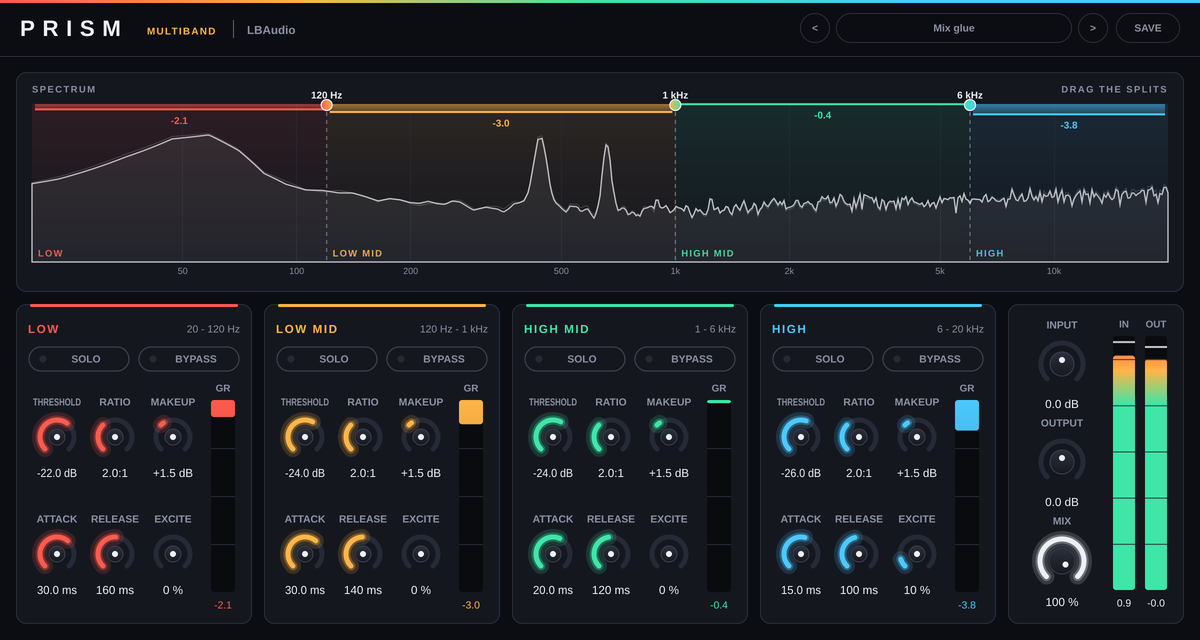
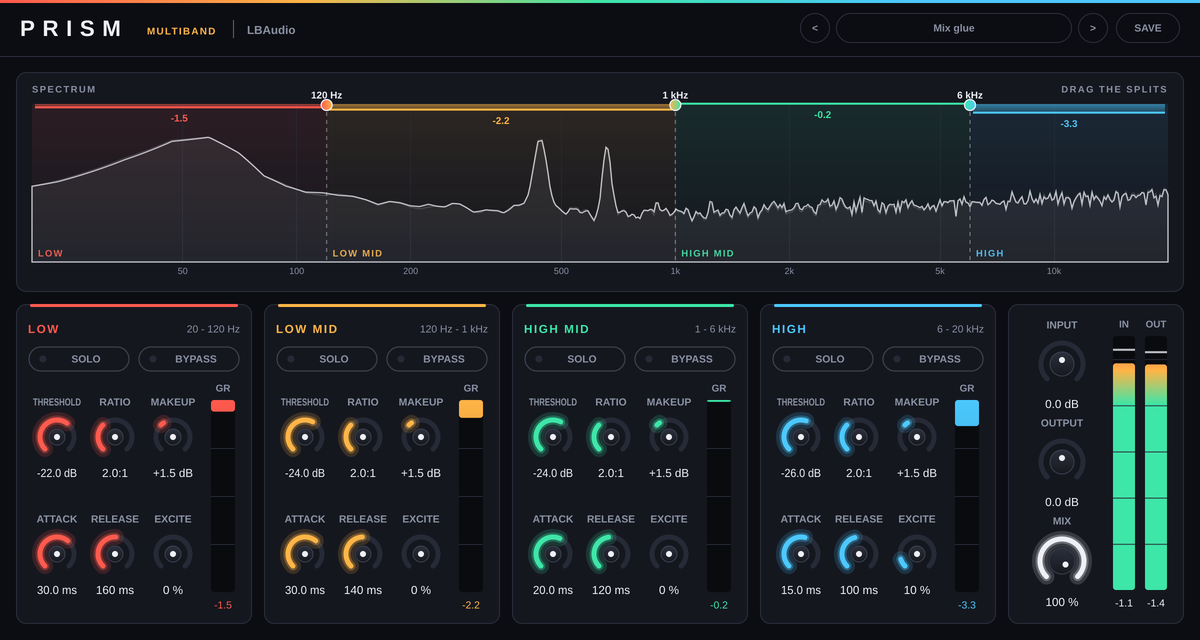
Prism: level-independent exciter, exact state restore, thread-safe presets
- Each band's exciter follows the band's envelope, so its harmonics sit the
  same distance under the band at any level; the curve's fundamental is put
  back and the harmonics are high-passed at the band's lower edge
- setStateInformation lines every parameter up with the state exactly
  (pluginval strictness 10 passes)
- Preset name and number live outside the value tree, so a host changing
  program from its audio thread is safe; a host's program 0 while loading a
  session leaves a user preset alone
- 808 weight preset: Low excite 60 %

Claude-Session: https://claude.ai/code/session_01D2tYPZDwenNEd5JoU51Zf3

diff --git a/plugins/Prism/Source/PluginProcessor.cpp b/plugins/Prism/Source/PluginProcessor.cpp
@@ -109,7 +109,8 @@ void PrismAudioProcessor::prepareToPlay (double sampleRate, int samplesPerBlock)
     for (auto& c : compressors) c.prepare (osFs, 2);
 
     smoothCoeff = 1.0f - (float) std::exp (-1.0 / (0.02 * fs));
-    dcR = std::exp (-2.0 * lbaudio::dsp::pi * 10.0 / osFs);
+    exciteAttack = std::exp (-1.0 / (prism::exciteAttackS * osFs));
+    exciteRelease = std::exp (-1.0 / (prism::exciteReleaseS * osFs));
 
     const auto p = currentParams();
     inGain = juce::Decibels::decibelsToGain (p.inputDb);
@@ -125,8 +126,7 @@ void PrismAudioProcessor::reset()
     if (oversampler) oversampler->reset();
     for (auto& x : crossover) x.reset();
     for (auto& c : compressors) c.reset();
-    for (auto& a : dcX1) a.fill (0.0);
-    for (auto& a : dcY1) a.fill (0.0);
+    for (auto& e : exciters) e.reset();
 }
 
 bool PrismAudioProcessor::isBusesLayoutSupported (const BusesLayout& layouts) const
@@ -160,6 +160,8 @@ void PrismAudioProcessor::processBlock (juce::AudioBuffer<float>& buffer, juce::
     {
         currentSplits = next;
         for (auto& x : crossover) x.set (currentSplits, osFs);
+        const float lowEdges[prism::numBands] = { 20.0f, currentSplits.low, currentSplits.mid, currentSplits.high };
+        for (int b = 0; b < prism::numBands; ++b) exciters[(size_t) b].setLowEdge (lowEdges[b], osFs);
     }
 
     for (int b = 0; b < prism::numBands; ++b)
@@ -225,30 +227,33 @@ void PrismAudioProcessor::processChunk (float* const* io, int channels, int n, c
         lbaudio::ui::storeMax (meterReduction[(size_t) b], stats.maxGainReductionDb);
 
         const float target = bp.excite;
+        auto& ex = exciters[(size_t) b];
         if (target > 0.0f || excite[(size_t) b] > 1.0e-4f)
         {
             float e = excite[(size_t) b];
-            for (int ch = 0; ch < channels; ++ch)
+            float* x[2] = { buf.getWritePointer (0), buf.getWritePointer (channels > 1 ? 1 : 0) };
+            double env = ex.env;
+            for (int i = 0; i < upN; ++i)
             {
-                float* x = buf.getWritePointer (ch);
-                double x1 = dcX1[(size_t) b][(size_t) ch], y1 = dcY1[(size_t) b][(size_t) ch];
-                e = excite[(size_t) b];
-                for (int i = 0; i < upN; ++i)
+                e += (target - e) * osSmooth;
+                float level = 0.0f;
+                for (int ch = 0; ch < channels; ++ch) level = juce::jmax (level, std::abs (x[ch][i]));
+                env = level + (level > env ? exciteAttack : exciteRelease) * (env - level);
+                const float ref = juce::jmax ((float) env, prism::exciteFloor), mixAmount = prism::exciteMix (e);
+                for (int ch = 0; ch < channels; ++ch)
                 {
-                    e += (target - e) * osSmooth;
-                    const double h = prism::harmonics (x[i], prism::exciteDrive (e));
-                    const double y = h - x1 + dcR * y1; // the harmonics' DC (even ones bring some) is taken out
-                    x1 = h; y1 = y;
-                    x[i] += prism::exciteMix (e) * (float) y;
+                    const float h = ref * prism::exciteHarmonics (x[ch][i] / ref);
+                    x[ch][i] += mixAmount * ex.highPass[(size_t) ch].process (h);
                 }
-                dcX1[(size_t) b][(size_t) ch] = x1;
-                dcY1[(size_t) b][(size_t) ch] = std::abs (y1) < 1.0e-20 ? 0.0 : y1;
             }
+            ex.env = env < 1.0e-12 ? 0.0 : env;
+            for (auto& f : ex.highPass) f.snapDenormals();
             excite[(size_t) b] = e;
         }
         else
         {
             excite[(size_t) b] = target;
+            ex.reset();
         }
     }
 

diff --git a/plugins/Prism/Source/PrismDSP.h b/plugins/Prism/Source/PrismDSP.h
@@ -12,9 +12,11 @@
 //                -> high half -> AP(low) -> LR(high) -> [High Mid, High]
 //
 // Compressor: Squeeze's (feed-forward, soft knee, stereo-linked peak detection).
-// Exciter: adds the harmonics of a curve with a slope of 1 at zero (Ember's Tube curve, so even and odd
-// harmonics) on top of the band; the fundamental is left where it was. Only harmonics are added, so a band's
-// level barely moves, and each band's harmonics are generated from that band alone.
+// Exciter: each band, scaled by its own envelope to a steady level, goes through Ember's Tube curve (even and
+// odd harmonics); what the curve adds, minus its fundamental, is scaled back and added to the band. So the
+// harmonics sit at the same distance below the band whether it's loud or quiet, the band's own level
+// doesn't move, and each band's harmonics are made from that band alone. They're high-passed at the band's
+// lower edge, so nothing the envelope does can thump below the band.
 
 #include <LBAudio/Biquad.h>
 #include "../../Squeeze/Source/CompressorDSP.h"
@@ -145,12 +147,46 @@ inline float tube (float x) noexcept
     return (std::tanh (x + tubeBias) - tb) * norm;
 }
 
-// Excite 0..1: drive into the curve rises to +16 dB, and the harmonics are added at up to twice their level.
-inline float exciteDrive (float amount) noexcept { return 1.0f + 5.3f * amount; }
-inline float exciteMix (float amount) noexcept { return 2.0f * amount; }
+constexpr float exciteDrive = 2.0f;           // into the curve, at the band's peak level
+constexpr float exciteFloor = 0.001f;          // -60 dB: quieter than this, a band isn't lifted to full level
+constexpr double exciteAttackS = 0.001, exciteReleaseS = 0.12;
 
-// The harmonics only: the curve minus its linear part.
-inline float harmonics (float x, float drive) noexcept { return tube (x * drive) / drive - x; }
+// How much of the fundamental the curve takes away from a full-level sine, put back so only harmonics are added
+inline float exciteFundamental() noexcept
+{
+    static const float c = []
+    {
+        double s = 0.0;
+        constexpr int n = 4096;
+        for (int i = 0; i < n; ++i)
+        {
+            const double ph = 2.0 * lbaudio::dsp::pi * i / n, u = std::sin (ph);
+            s += (tube ((float) u * exciteDrive) / exciteDrive - u) * u;
+        }
+        return (float) (-2.0 * s / n);
+    }();
+    return c;
+}
+
+// The harmonics of a band scaled to peak at about 1
+inline float exciteHarmonics (float u) noexcept { return tube (u * exciteDrive) / exciteDrive - u + exciteFundamental() * u; }
+
+// Excite 0..1: at 100 % the 3rd harmonic of a steady tone sits about 17 dB under it and the 2nd about 22 dB under
+inline float exciteMix (float amount) noexcept { return 1.5f * amount; }
+
+// One band's exciter: its envelope (stereo-linked) and the high-pass on its harmonics, per channel
+struct Exciter
+{
+    double env = 0.0;
+    std::array<lbaudio::dsp::Biquad, 2> highPass;
+
+    void reset() noexcept { env = 0.0; for (auto& f : highPass) f.reset(); }
+    void setLowEdge (double hz, double fs)
+    {
+        const auto c = lbaudio::dsp::design (lbaudio::dsp::Shape::HighPass, std::max (20.0, hz), 0.0, butterworthQ, fs);
+        for (auto& f : highPass) f.c = c;
+    }
+};
 
 //==============================================================================
 struct BandParams

diff --git a/tests/PrismTests.cpp b/tests/PrismTests.cpp
@@ -146,6 +146,24 @@ void runSuite (juce::AudioProcessor& proc)
         check (h2 > -45.0f && h3 > -45.0f, "Low Excite 100 %: a 60 Hz tone gains its 2nd and 3rd harmonics",
                "2nd " + fmt (h2, 1) + ", 3rd " + fmt (h3, 1) + " dB");
     }
+    defaults (proc); h.set ("High Mid Excite", "50"); h.apply();
+    {
+        // The exciter follows the band's level, so a quiet band gets the same colour as a loud one
+        auto ratios = [&] (float inDb)
+        {
+            const auto out = h.run ((int) sampleRate, sine (inDb, 2000.0f));
+            const float f = toneDb (out, settle, out.size(), 2000.0);
+            return std::make_pair (toneDb (out, settle, out.size(), 4000.0) - f, toneDb (out, settle, out.size(), 6000.0) - f);
+        };
+        const auto loud = ratios (-6.0f), quiet = ratios (-40.0f);
+        const float diff = std::max (std::abs (loud.first - quiet.first), std::abs (loud.second - quiet.second));
+        check (diff < 1.0f && loud.second > -30.0f && loud.second < -18.0f, "High Mid Excite 50 %: the same harmonics at -6 dB and -40 dB",
+               "3rd " + fmt (loud.second, 1) + " / " + fmt (quiet.second, 1) + " dB, 2nd " + fmt (loud.first, 1) + " / " + fmt (quiet.first, 1) + " dB under the tone");
+        h.apply();
+        const auto out = h.run ((int) sampleRate, sine (-6.0f, 2000.0f));
+        const float level = toneDb (out, settle, out.size(), 2000.0) + 6.0f;
+        check (std::abs (level) < 0.3f, "...and the tone itself stays at its level", fmt (level) + " dB");
+    }
     defaults (proc); h.set ("High Excite", "100"); h.set ("High Mid Excite", "100"); h.apply();
     {
         const auto out = h.run ((int) sampleRate, sine (-12.0f, 60.0f));
@@ -306,6 +324,6 @@ int main (int argc, char** argv)
             renderSnapshot<PrismAudioProcessor, PrismAudioProcessorEditor> (png, [] (Harness& h)
             {
                 h.proc.setCurrentProgram (1); // Mix glue
-            }, beat (-5.0f), 90);
+            }, beat (-7.0f), 90);
         });
 }

diff --git a/plugins/Prism/Source/PluginProcessor.h b/plugins/Prism/Source/PluginProcessor.h
@@ -93,8 +93,8 @@ private:
     std::array<squeeze::Compressor, prism::numBands> compressors;
     std::array<juce::AudioBuffer<float>, prism::numBands> bandBuffers;
     juce::AudioBuffer<float> dryBuffer;
-    std::array<std::array<double, 2>, prism::numBands> dcX1 {}, dcY1 {}; // DC blockers on the exciters' harmonics
-    double dcR = 0.9999;
+    std::array<prism::Exciter, prism::numBands> exciters;
+    double exciteAttack = 0.0, exciteRelease = 0.0;
 
     // Smoothed values
     float inGain = 1.0f, outGain = 1.0f, mix = 1.0f, smoothCoeff = 0.001f;

diff --git a/plugins/Prism/Source/PrismPresets.h b/plugins/Prism/Source/PrismPresets.h
@@ -44,7 +44,7 @@ inline const std::vector<Preset>& factoryPresets()
         { "808 weight", "Beats", {
             { "split1", 100 },
             { "b1_threshold", -20 }, { "b1_ratio", 4 }, { "b1_attack", 30 }, { "b1_release", 120 }, { "b1_makeup", 3 },
-            { "b1_excite", 40 },
+            { "b1_excite", 60 },
             { "b2_threshold", -22 }, { "b2_ratio", 2 }, { "b2_attack", 20 }, { "b2_release", 120 } } },
         { "Punchy drums", "Beats", {
             { "split1", 100 }, { "split2", 1200 }, { "split3", 7000 },

diff --git a/README.md b/README.md
@@ -167,7 +167,7 @@ Four bands (Low, Low Mid, High Mid, High), each with its own compressor and exci
 | Ratio (per band) | 1:1 … 20:1 | How hard |
 | Attack / Release (per band) | 0.1 … 200 ms / 5 ms … 2 s | How fast it clamps down and lets go |
 | Makeup (per band) | −12 … +24 dB | That band's level after compression |
-| Excite (per band) | 0 … 100 % | Adds harmonics made from that band only: air from the highs, weight from the lows |
+| Excite (per band) | 0 … 100 % | Adds harmonics made from that band only (air from the highs, weight from the lows). It follows the band's level, so quiet parts get the same colour as loud ones |
 | Solo / Bypass (per band) | on/off | Hear one band (or several); leave a band untouched |
 | Input / Output | −24 … +24 dB | Levels in and out |
 | Mix | 0 … 100 % | Dry/wet (the dry path is phase-matched to the bands, so blends stay flat) |
@@ -249,7 +249,7 @@ Each plugin has a test tool that loads the built VST3 the way a DAW does, then r
 - **Spread:** neutral passthrough, width 0/200 %, bass mono (low side removed, highs and centred bass untouched), mono check, balance law, correlation meter
 - **Snap:** bit-exact when neutral, steady tones untouched, attack shapes fronts not tails, sustain shapes tails not fronts, level independence, mix
 - **Orbit:** bit-exact dry mix, a still voice is an exact delay, depth spreads a pure tone, width 0 stays mono, level with 1-4 voices, tone filter against its maths, stability at 70 % feedback
-- **Prism:** oversampling latency, the bands sum flat, Mix blends in phase, band isolation, each band's compressor against its maths, exciter harmonics made from their own band only and not aliased, solo and bypass, input/output, crossed splits kept in order, every factory preset loads and stays sane, state recall, user presets
+- **Prism:** oversampling latency, the bands sum flat, Mix blends in phase, band isolation, each band's compressor against its maths, exciter harmonics made from their own band only, the same at any level and not aliased, solo and bypass, input/output, crossed splits kept in order, every factory preset loads and stays sane, state recall, user presets
 
 All of them also pass [pluginval](https://github.com/Tracktion/pluginval) at strictness level 10.
 
